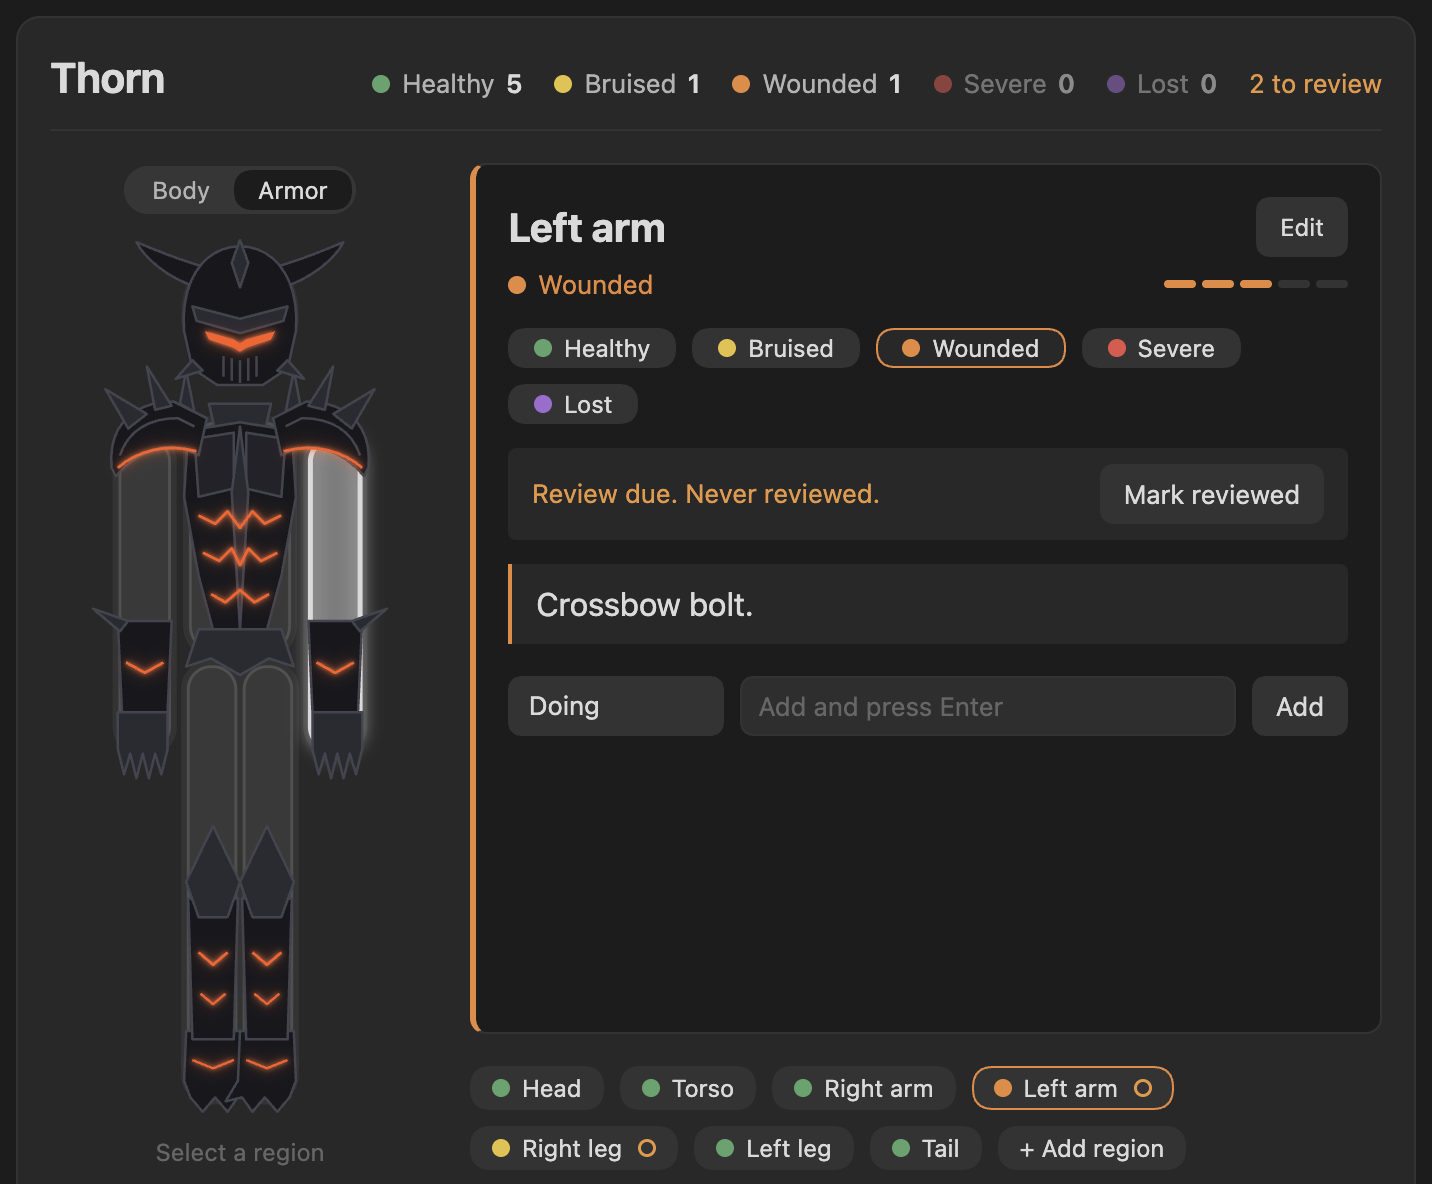
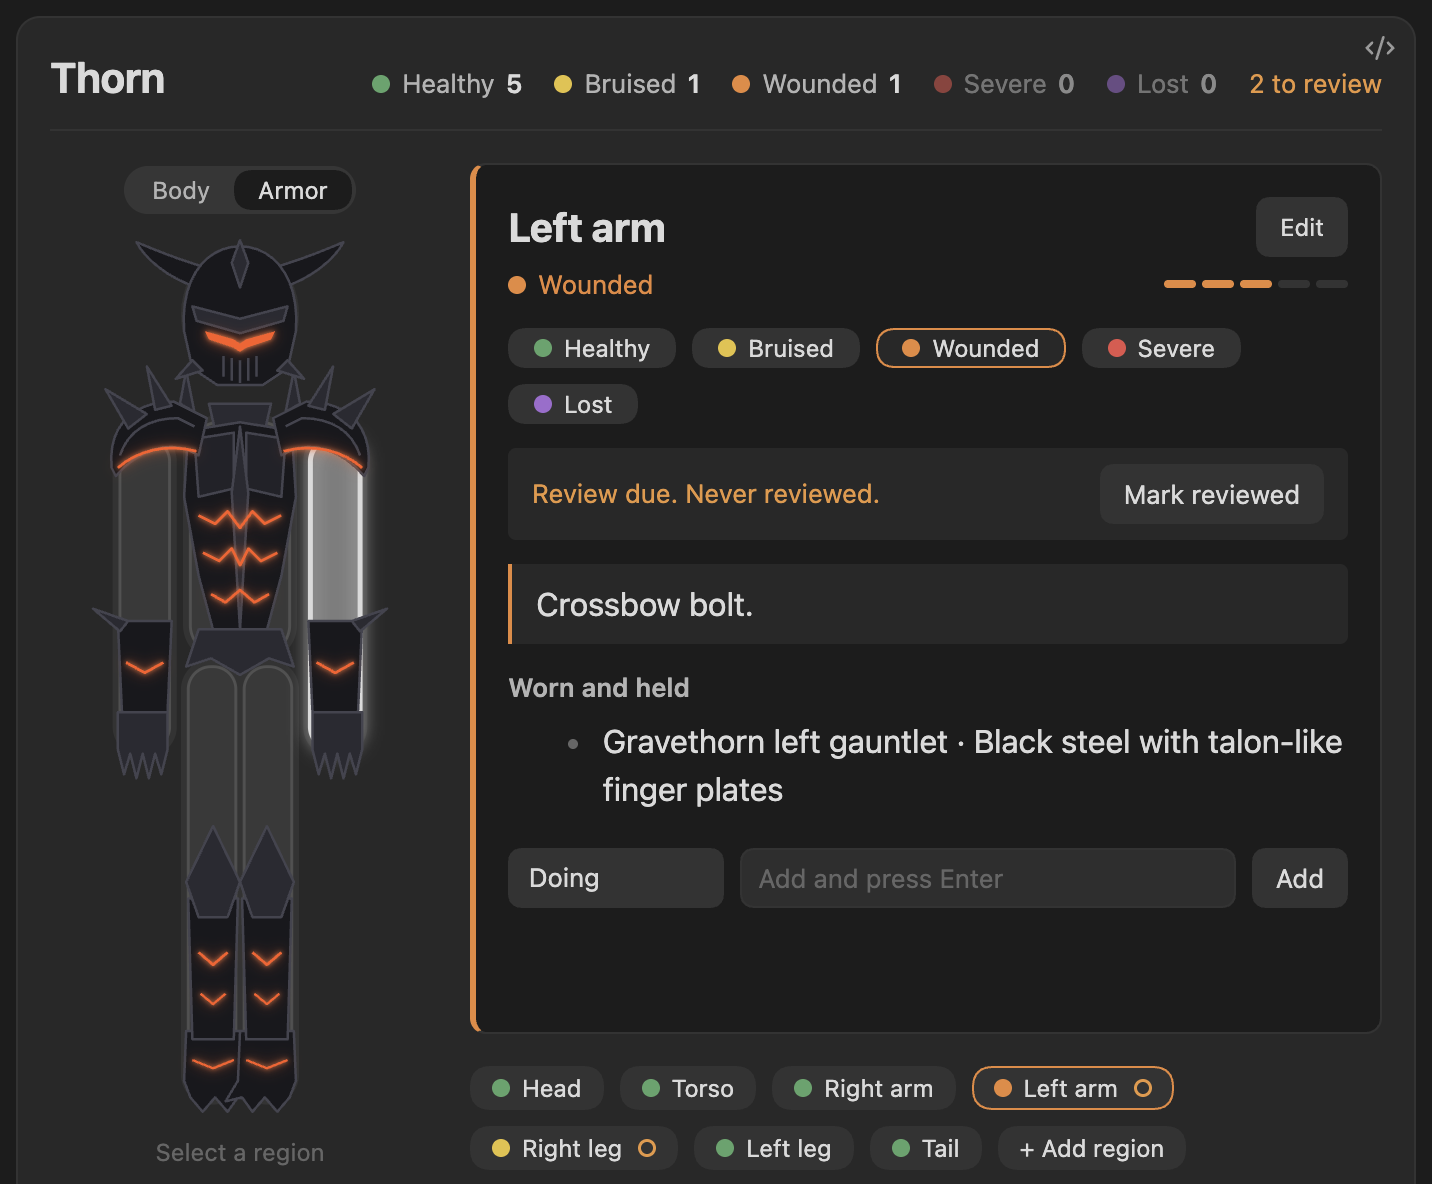
docs: rewrite the README for the first release with real screenshots
A new people-first README with a hero image of a body, a Gravethorn
knight and a soldier, plus pictures of the body, armor, a party, the
inventory and the soldier kit, all taken from a real Obsidian.

The check script now gives its sample characters full starter kits and
a title line, adds soldier and inventory pictures, and the example
health note in the docs is a neutral one.

diff --git a/README.md b/README.md
@@ -1,20 +1,22 @@
 # Character Info
 
-A clickable character screen for people: your own body, or the characters in your tabletop games. Click a region on the figure and see its state, notes, what you are doing about it and what to do next. Think of the health tab in Project Zomboid's character window.
+**A character screen for your notes.** Track your own body like a game's health screen, or keep a whole tabletop party at a glance, with armor drawn right on the figure.
 
-Everything is stored in plain notes, so Bases, Dataview and sync all work.
+![Three profiles: a person's body with a few areas flagged, a knight in Gravethorn armor, and a soldier in modern kit](docs/images/hero.png)
 
-> **Status: 0.2, early.** Tested with unit tests and in real Obsidian 1.15 on the desktop. Not yet tried on mobile.
+Click a part of the figure to see how it is doing, what you are doing about it, what to do next, and its history. Everything lives in plain Markdown notes, so search, links, Bases, Dataview and sync all keep working. Nothing leaves your vault.
 
-![Your own body: each region has a state, notes and a history](docs/images/body.png)
+- **For your body.** Twenty-three areas from head to bloodwork, each with a state, notes, a to-do list, links to your notes and a dated history. Gentle reminders flag what you have not looked at in a while.
+- **For your tabletop party.** Characters with wounds limb by limb, a party view of everyone at once, an inventory with starter kits, and armor you can see.
+- **Plain text all the way down.** A profile is a few lines in a code block. Edit the text and the figure follows.
 
-![A tabletop character in Gravethorn armor, with the Body and Armor views](docs/images/armor.png)
+## Quick start
 
-![A party: everyone at a glance](docs/images/party.png)
+1. Install **Character Info** from Community plugins and enable it.
+2. In any note, open the command palette and run **Character Info: New profile**. Pick a name and a template.
+3. Click a part of the figure, then pick a state with one click.
 
-## Use it
-
-Put a block in any note. The text of the block is the profile, so there is nothing to set up first.
+That inserts a block like this. You can also type it yourself:
 
 ````
 ```character-info
@@ -23,17 +25,54 @@ template: character
 ```
 ````
 
-Easiest start: open the command palette in a note and run **Character Info: New profile**. It asks for a name and a template and inserts the block. **New profile, full template** inserts every key, with the template's values and short comment lines, so everything you can change is already in the text.
+A block with only `profile: Thorn` shows a profile defined elsewhere. If the name does not exist yet, the block offers buttons to create it, so a typo never makes a profile on its own.
 
-Click a region and pick a state with one click. To add a task, a fix or a link without opening anything, use the small row at the bottom of the card: choose Doing, To fix or Link a note, type, and press Enter. Link mode suggests your notes as you type and stores a real `[[link]]`. Hover an item and press the cross to remove it. **Edit** is there for longer text. The dashed **+ Add region** chip adds a region by writing it into the block's `add:` line for you, so the text stays the source of truth.
+## Your body
 
-Click a region, press **Edit**, pick a state, write a note, save. Your first save creates the profile's data note.
+![Your own body: each area has a state, notes, a to-do list and a history](docs/images/body.png)
 
-A block with only `profile: Thorn` shows a profile that is defined elsewhere. A name that does not exist yet shows buttons to create it from a template, so a typo never creates a profile on its own.
+- **One click to change a state.** Every change is added to the area's history with the date.
+- **Quick notes.** The row at the bottom of the card adds a Doing item, a To fix item, or a link to a note, which suggests your notes as you type. Hover an item and press the cross to remove it.
+- **Review reminders.** An area that is not in its default state asks to be looked at again after 30 days without an update. Its chip gets a small ring and the header counts how many are due. **Mark reviewed** resets the clock. Change the period with `review: 14`, turn it off for one profile with `review: 0`, or switch it off everywhere in settings.
+- **Only problems get colour.** Areas in their default state stay grey, so what needs attention stands out.
 
-## Change a profile by editing its text
+## Tabletop characters
 
-Every line after `profile:` is optional. Lines that start with `#` are comments.
+![A knight in Gravethorn armor, with the Body and Armor views](docs/images/armor.png)
+
+The **character** template has a head, torso, two arms and two legs, with Healthy, Bruised, Wounded, Severe and Lost.
+
+### Party
+
+![A party: everyone at a glance, each with their worst wound](docs/images/party.png)
+
+````
+```character-party
+title: The Company
+Thorn
+Mira
+Kestrel
+```
+````
+
+Each member gets a tile with a small figure, their worst wound and a count of each problem. Click a tile to open that character in full, edit them, and press **Back**. Write `all` instead of names to show every profile, including new ones. **New party** in the command palette inserts one.
+
+### Inventory and armor
+
+![An inventory: weapons and armor, each worn on a part of the body](docs/images/inventory.png)
+
+Turn on **Settings, Character Info, Inventory**. Each profile then gets an inventory of weapons, armor and gear, with quantities, notes, and where each piece is worn or held.
+
+- **Starter kits** add a full set in one click: a **modern soldier** loadout, or **Gravethorn warplate**, an original dark fantasy set of black horned plate with spiked pauldrons and ember light in its seams. Pieces land on the right limbs, and pressing it twice adds nothing twice.
+- **Armor view.** When a profile wears armor that has a drawing, a **Body / Armor** switch appears above the figure. Armor view draws the gear on the figure.
+- **Edit anything** with the pencil: name, note, kind, where it is worn, and which drawing shows it. Armor you typed in yourself can be drawn too.
+- Selecting a part lists what is worn or held there.
+
+![A soldier in modern kit: helmet, plate carrier, gloves, knee pads and boots](docs/images/soldier.png)
+
+## Change anything with text
+
+Every line after `profile:` is optional. Lines that start with `#` are comments. **New profile, full template** in the command palette writes all of them out for you.
 
 ````
 ```character-info
@@ -49,55 +88,39 @@ review: 30                           # days before a changed region asks to be r
 ```
 ````
 
-- **Regions** match by name or id, ignoring case. Add a name that matches a map shape, such as `neck`, and the shape comes back.
-- **States** go best first. The first is the default, drawn neutral. Colours are chosen for you, and `Bruised=#e5c13b` sets one.
-- **Stored data stays attached.** Region and state ids do not change when you rename, so your notes keep their meaning.
-- The block you write is the source of truth. Delete a line and its effect goes away.
+- **Regions** match by name or id, ignoring case. The dashed **+ Add region** chip on the card writes to the `add:` line for you.
+- **States** go best first. The first is the default and is drawn grey. Colours are chosen for you, and `Bruised=#e5c13b` sets one.
+- **Your data stays attached.** Renaming keeps the underlying ids, so old notes keep their meaning.
+- The block is the source of truth. Delete a line and its effect goes away.
 
-| Template | Map | States |
+| Template | Figure | States |
 |---|---|---|
-| body | 23 regions, 16 drawn | Dialed in, Maintaining, Needs work, Injured, Untracked |
+| body | 23 areas, 16 drawn | Dialed in, Maintaining, Needs work, Injured, Untracked |
 | character | head, torso, two arms, two legs | Healthy, Bruised, Wounded, Severe, Lost |
-| blank | none, chips only | Working, Worn, Failing, Broken, Unchecked |
+| blank | no figure, a list of chips | Working, Worn, Failing, Broken, Unchecked |
 
-## Review reminders
+## Where the data lives
 
-A region that is not in its default state asks to be looked at again once it has gone untouched for a while: 30 days unless the block says otherwise. Its chip gets a small ring, the header counts how many are due, and the card says how long it has been, with a **Mark reviewed** button. Any save counts as a review. Set the period with `review: 14` in the block, or turn it off for one profile with `review: 0`. To turn reminders off everywhere, switch off **Settings, Character Info, Review reminders**.
+Each profile keeps its data in one note, `Character Info/<Profile>.md` by default:
 
-## Party
-
-Show several profiles side by side, which is handy for tabletop. Use a different block:
-
-````
-```character-party
-title: The Company
-Thorn
-Mira
-Kestrel
+```yaml
+---
+character-info-profile: Me
+regions:
+  hips:
+    status: hurt
+    note: Sore after a long run.
+    fix: [Rest a week]
+    history:
+      - { date: 2026-11-06, from: unknown, to: hurt }
+---
 ```
-````
 
-- One name per line, or separated by commas. `all` shows every profile and follows new ones as you create them. **New party** in the command palette inserts an `all` block.
-- Each tile has a small figure, the worst region, and a count of each problem state.
-- Click a tile to open that profile in full, edit it, and use **Back** to return.
-- A name with no profile gets a dashed tile that says so.
-
-## Inventory
-
-Off by default. Turn it on under **Settings, Character Info, Inventory**. Each profile then shows an inventory under the figure.
-
-- Items are weapons, armor or gear, with a quantity and an optional note.
-- Pick where an item is worn or held, such as armor on the torso or a sword in the right arm, or leave it as carried.
-- A note link in a name, like `[[Plate carrier]]`, is a real link. The plus and minus buttons change the quantity and the cross removes an item.
-- Items are saved in the profile's data note under `inventory:`.
-- **Starter kits** add a ready-made set in one click, placed on the regions your profile has. There are two: a modern soldier loadout, and Gravethorn warplate, an original dark fantasy set of black horned plate with spiked pauldrons and an ember glow in the seams. A kit never adds a piece you already have, so pressing it twice is safe.
-- **Edit any item** with the pencil: change its name, note, kind, where it is worn or held, and for armor, which drawing shows it on the figure. That is how armor you typed in yourself gets drawn.
-- **Armor view.** Kit armor is drawn on the figure. When a profile wears any, a **Body / Armor** switch appears above the figure. Body shows the states, Armor shows the gear. With no drawable armor there is no switch. Kit armor comes with drawings, and any armor can get one through Edit.
-- Selecting a region lists the items worn or held there.
+The plugin never connects to the internet and stores nothing outside your vault.
 
 ## Your own figure
 
-The built-in figures are a body and a tabletop character. You can also draw your own figure in any SVG editor, such as a character with wings or a tail, or even something that is not a person, like a ship. Give each part an `id`, save the file in your vault, and point a block at it:
+Draw any figure in an SVG editor, such as a character with wings or a tail, or something that is not a person at all, like a ship. Give each part an `id`, save it in your vault, and point a block at it:
 
 ````
 ```character-info
@@ -107,35 +130,7 @@ states: Sound, Worn, Damaged, Broken
 ```
 ````
 
-- Every shape or group with an `id` becomes a region. Its name comes from a `data-name` attribute or a `<title>`, otherwise from the id, so `main_sail` reads as "Main sail".
-- If the block adds no regions, they come straight from the drawing. Edit the SVG and the map reloads.
-- The file is treated as untrusted: only plain shapes and their geometry are kept. Scripts, styles, colours, links and images are dropped. Armor view is for the built-in figure, so custom maps do not have it.
-
-## Where the data lives
-
-One note per profile, by default `Character Info/<Profile>.md`:
-
-```yaml
----
-character-info-profile: Me
-regions:
-  hips:
-    status: hurt
-    note: Sore after a long run.
-    fix: [Stop single-leg work]
-    history:
-      - { date: 2026-11-06, from: unknown, to: hurt }
----
-```
-
-Changing a state appends to `history` automatically. Region ids and state ids in the file match the ids in settings.
-
-## Roadmap
-
-- A click-to-assign editor for custom SVG maps
-- Party view: several profiles side by side
-- Hit-location roll and damage-on-click for tabletop use
-- Review badges for regions that have not been touched in a while
+Every shape or group with an `id` becomes a region, named from a `data-name` attribute, a `<title>`, or the id. Edit the SVG and the figure reloads. Only plain shapes are kept from the file, so scripts, styles and links are dropped. Armor view works on the built-in figures only.
 
 ## Develop
 
@@ -145,6 +140,6 @@ make check        # format, lint, types, dead code, boundaries, layout, tests, b
 scripts/deploy.sh /path/to/vault
 ```
 
-Agents and contributors should read `AGENTS.md` first. The design is in `DESIGN.md` and current work is in `PROGRESS.md`.
+Contributors should read `AGENTS.md` first. The design is in `DESIGN.md` and current work is in `PROGRESS.md`.
 
 MIT licensed.

diff --git a/AGENTS.md b/AGENTS.md
@@ -71,7 +71,7 @@ npm run harness                    # the whole plugin in Chrome at http://127.0.
 
 ## Releasing
 
-Pictures in the README come from a real Obsidian: run `make readme-images` and commit `docs/images/`.
+Pictures in the README come from a real Obsidian: run `make readme-images` and commit `docs/images/`. `hero.png` is the three figures cropped from `body.png`, `armor.png` and `soldier.png` and placed side by side; recompose it by hand after the others change.
 
 To release, bump the version with `npm version <x.y.z>` (it updates `manifest.json` and `versions.json`), merge that through a PR, then push a tag equal to the version, with no `v`. The `release` workflow runs `make check`, confirms the tag matches the manifest, and makes a **draft** GitHub release with `main.js`, `manifest.json` and `styles.css`. Publish the draft by hand. Tagging is publishing, so only do it when the owner asks.
 
